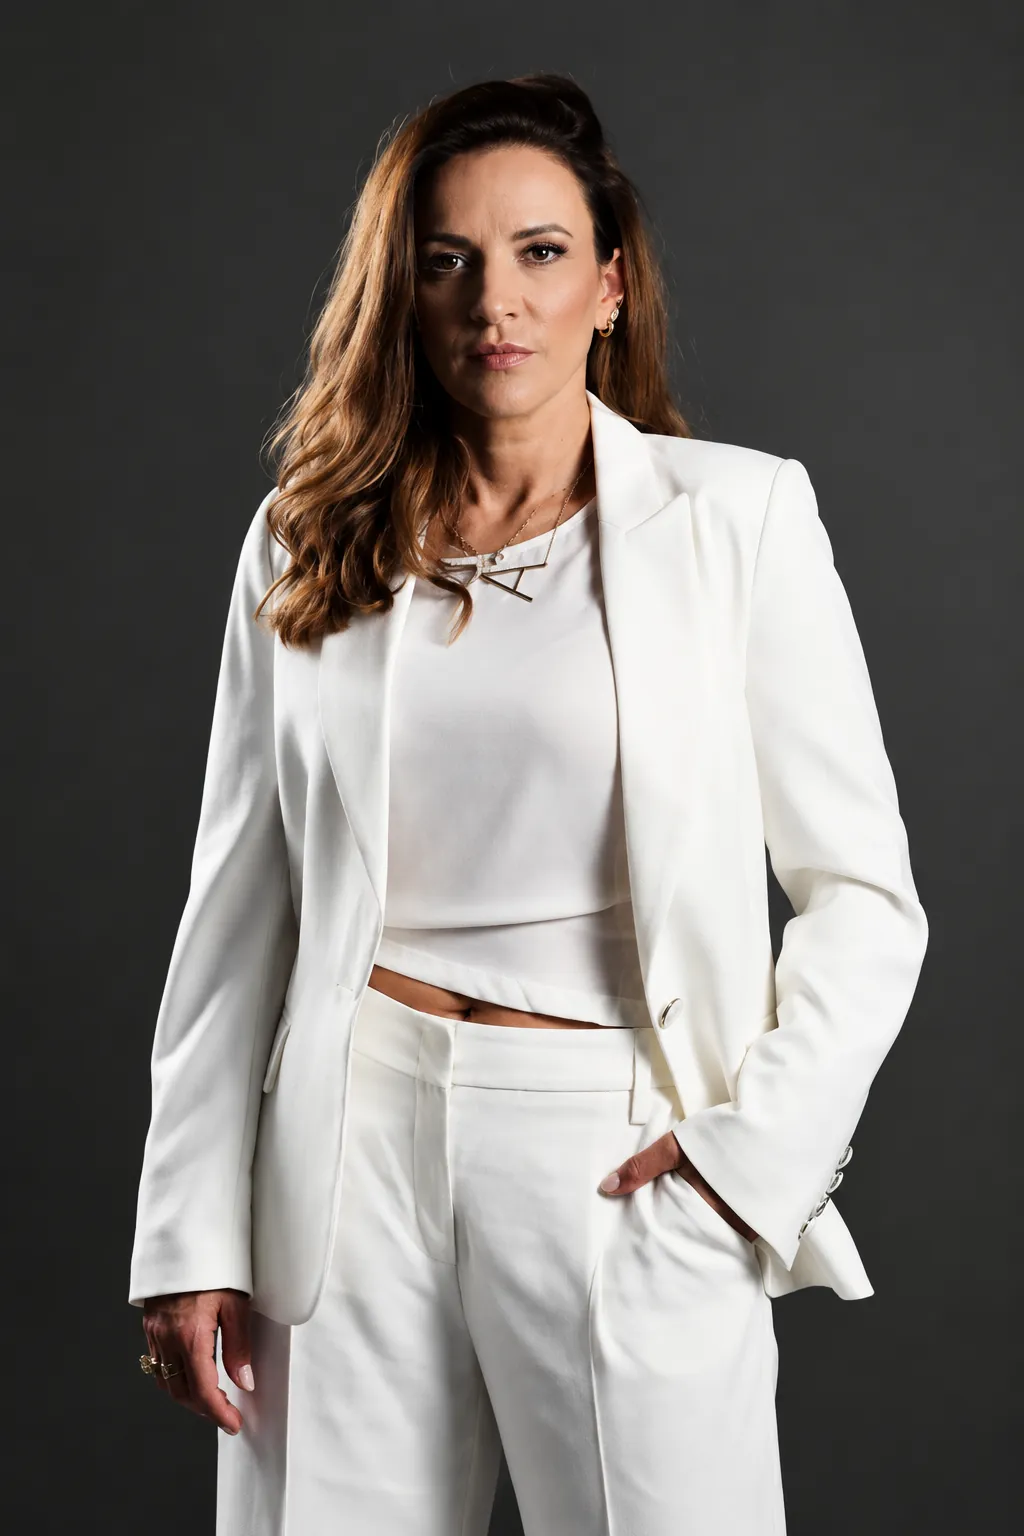
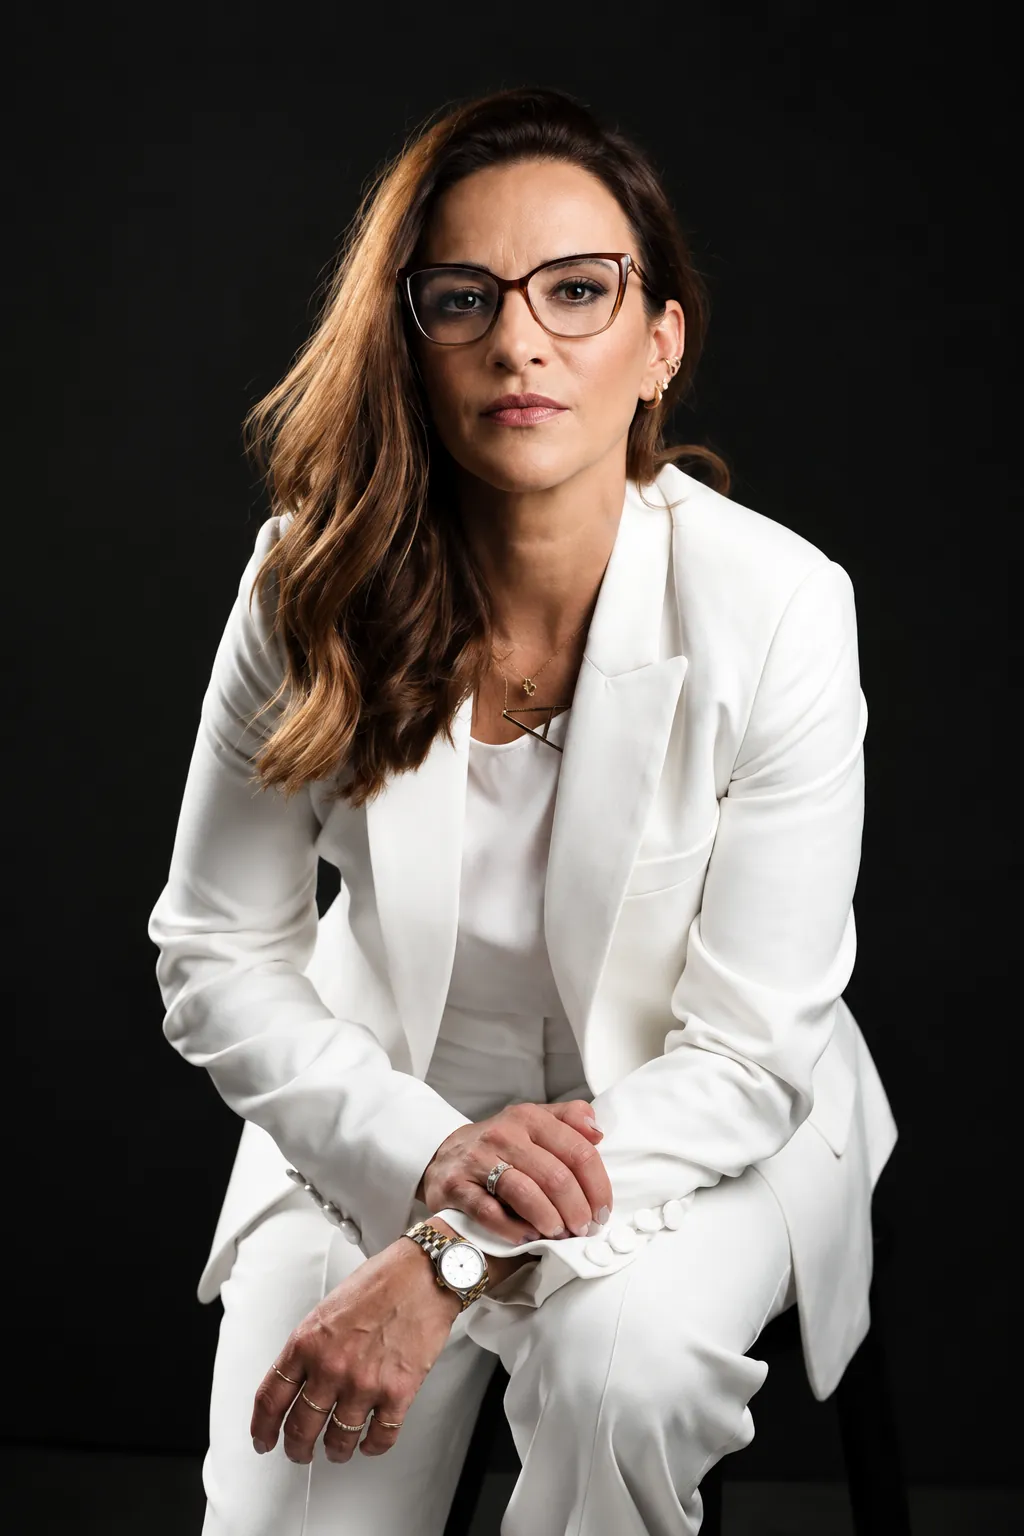
Hero nova pelo PSD de 19/11 e foto nova na seção Sobre
- Fundo da hero com a estátua da Justiça (16% sobre o grafite, com a máscara da camada do PSD)
- Foto da Aline na poltrona ovo, na posição do PSD no desktop e no celular
- Faixa rolante removida; etiqueta do celular na largura do botão
- Seção Sobre com a foto nova (sentada, terno branco, fundo preto)

diff --git a/css/style.css b/css/style.css
@@ -188,9 +188,9 @@ ul { margin: 0; padding: 0; list-style: none; }
 .hero {
   position: relative;
   overflow: hidden;
-  background:
-    linear-gradient(180deg, rgba(44, 44, 43, 0.9) 0%, rgba(44, 44, 43, 0.93) 55%, rgba(44, 44, 43, 0.97) 100%),
-    url("../img/fundo-colunas.webp") center 35% / cover no-repeat;
+  /* fundo do PSD (19/11): estátua da Justiça a 16% sobre o grafite, já escurecida na imagem; mesma posição e
+     tamanho da camada (2257u de largura, 339u à esquerda do container e 167u acima do topo da hero) */
+  background: url("../img/fundo-justica.webp?v=2") no-repeat calc(50% + 149.5 * var(--u)) calc(-167 * var(--u)) / calc(2257 * var(--u)) auto;
   background-color: var(--grafite);
 }
 .hero__grade {
@@ -238,17 +238,20 @@ ul { margin: 0; padding: 0; list-style: none; }
 }
 .hero .btn-claro__icone { width: 5.1cqw; height: 5.1cqw; }
 
+/* foto na poltrona ovo (19/11), como a camada "Agrupar 5" do PSD: 710u de largura, 700u depois do início
+   do container e 36u abaixo do topo da hero */
 .hero__foto {
   position: absolute; z-index: 2;
-  width: 61.9cqw;
-  right: -8.7cqw;
-  top: 3.1cqw;
+  width: 55.47cqw;
+  right: -10.16cqw;
+  top: 2.81cqw;
 }
 .hero__foto img { width: 100%; height: auto; }
+/* cartão no mesmo lugar de antes (medido pelo topo da hero, em cqw), não pelo tamanho da foto */
 .hero__cartao {
   position: absolute;
-  left: 5.3%; top: 50.3%;
-  width: 63.4%;
+  left: -4.61cqw; top: 39.22cqw;
+  width: 39.24cqw;
   padding: 2.4cqw 3.4cqw 2.3cqw 3.8cqw;
   background: rgba(178, 148, 78, 0.95);
   border-radius: 3.1cqw;
@@ -270,28 +273,6 @@ ul { margin: 0; padding: 0; list-style: none; }
 .selo-redondo__texto { font-family: var(--serif); font-weight: 500; font-size: 9.6px; fill: #fff; }
 .selo-redondo__balanca { fill: var(--ouro); }
 
-/* faixa rolante */
-.faixa {
-  position: absolute; left: 0; right: 0; bottom: 0; z-index: 4;
-  height: max(56px, calc(107 * var(--u)));
-  overflow: hidden;
-  display: flex; align-items: center;
-  background: linear-gradient(90deg, rgba(42, 42, 41, 0.92) 0%, rgba(80, 78, 74, 0.62) 50%, rgba(58, 57, 55, 0.78) 100%);
-  /* desfoca a foto e o fundo que passam por trás da faixa */
-  -webkit-backdrop-filter: blur(12px);
-  backdrop-filter: blur(12px);
-}
-.faixa__trilho { display: flex; width: max-content; animation: rolar 38s linear infinite; }
-.faixa__grupo { display: flex; }
-.faixa__item {
-  display: flex; align-items: center; gap: max(10px, calc(20 * var(--u)));
-  padding-right: max(32px, calc(56 * var(--u)));
-  font-family: var(--serif); font-weight: 400;
-  font-size: max(0.85rem, calc(25 * var(--u))); line-height: 1.05;
-  color: #fff; white-space: nowrap;
-}
-.faixa__item img { height: max(28px, calc(51 * var(--u))); width: auto; }
-@keyframes rolar { to { transform: translateX(-50%); } }
 
 /* =========================================================
    2. CREDIBILIDADE
@@ -552,7 +533,7 @@ ul { margin: 0; padding: 0; list-style: none; }
 }
 .sobre__botao .btn-escuro__icone { width: max(30px, calc(43 * var(--u))); height: max(30px, calc(43 * var(--u))); }
 
-.sobre__foto { position: relative; margin: 0; overflow: hidden; isolation: isolate; clip-path: inset(0); background: #3a3a3a; }
+.sobre__foto { position: relative; margin: 0; overflow: hidden; isolation: isolate; clip-path: inset(0); background: #0e0e0e; }
 .sobre__foto img { position: absolute; inset: 0; width: 100%; height: 100%; object-fit: cover; object-position: 50% 8%; }
 .sobre__foto figcaption {
   position: absolute; left: 0; right: 0; bottom: 0;
@@ -830,7 +811,6 @@ ul { margin: 0; padding: 0; list-style: none; }
   .hero__foto img { -webkit-mask-image: linear-gradient(180deg, #000 82%, transparent 100%); mask-image: linear-gradient(180deg, #000 82%, transparent 100%); }
   .hero__cartao { left: 6%; top: auto; bottom: 10%; width: 72%; padding: 16px 20px 18px; border-radius: 18px; font-size: clamp(0.85rem, 3.4vw, 1rem); }
   .selo-redondo { width: 64px; height: 64px; right: -16px; bottom: -22px; }
-  .faixa { position: relative; }
 
   /* credibilidade */
   .cred__grade { grid-template-columns: 1fr; gap: 28px; }
@@ -906,7 +886,7 @@ ul { margin: 0; padding: 0; list-style: none; }
   100% { transform: translate3d(14%, -4%, 0) rotate(5deg); }
 }
 
-/* faixas e botões: o degradê tem o dobro da largura e desliza de um lado para o outro */
+/* cabeçalho e botões: o degradê tem o dobro da largura e desliza de um lado para o outro */
 .topo {
   background: linear-gradient(90deg, #a98b47 0%, #b5964f 25%, #d8b766 50%, #b5964f 75%, #a98b47 100%);
   background-size: 200% 100%;
@@ -923,11 +903,6 @@ ul { margin: 0; padding: 0; list-style: none; }
   animation: ouro-fluxo 10s ease-in-out infinite alternate;
 }
 .sobre__botao { background: linear-gradient(90deg, #262626 0%, #333 30%, #4a4a4a 50%, #333 70%, #262626 100%); background-size: 200% 100%; }
-.faixa {
-  background: linear-gradient(90deg, rgba(42, 42, 41, 0.92) 0%, rgba(80, 78, 74, 0.62) 25%, rgba(58, 57, 55, 0.78) 50%, rgba(80, 78, 74, 0.62) 75%, rgba(42, 42, 41, 0.92) 100%);
-  background-size: 200% 100%;
-  animation: ouro-fluxo 16s ease-in-out infinite alternate;
-}
 
 /* cartões dourados grandes: o degradê fica numa camada maior que o cartão e "flutua"
    (só transform, que a placa de vídeo anima sem pesar a página) */
@@ -955,7 +930,7 @@ ul { margin: 0; padding: 0; list-style: none; }
 
 /* =========================================================
    CELULAR: topo conforme a prancheta 2 do PSD (1080 px de largura)
-   ordem: foto com o cartão, faixa e depois o texto; cabeçalho transparente por cima da foto
+   ordem: foto com o cartão e depois o texto; cabeçalho transparente por cima da foto
    (1 px da prancheta = 100vw / 1080; pisos mínimos para o texto continuar legível)
    ========================================================= */
 .quebra-m { display: none; }
@@ -985,29 +960,29 @@ ul { margin: 0; padding: 0; list-style: none; }
   .topo.aberto .menu-botao span:nth-child(1) { transform: translateY(calc(max(4px, 1vw) + max(2px, 0.65vw))) rotate(45deg); }
   .topo.aberto .menu-botao span:nth-child(3) { transform: translateY(calc(-1 * (max(4px, 1vw) + max(2px, 0.65vw)))) rotate(-45deg); }
 
-  /* topo: foto em cima, faixa, e o texto embaixo no fundo grafite */
+  /* topo: foto em cima e o texto embaixo; fundo da estátua como na prancheta 2 (2257 px de largura,
+     900 px à esquerda e 43 px acima do topo) */
   .hero {
     display: flex; flex-direction: column;
-    background:
-      linear-gradient(180deg, rgba(44, 44, 43, 0.55) 0, rgba(44, 44, 43, 0.72) 70vw, #2d2d2d 111vw, #2d2d2d 100%),
-      url("../img/fundo-colunas-1280.webp") center top / auto 125vw no-repeat,
-      var(--grafite);
+    background: url("../img/fundo-justica-1280.webp?v=2") no-repeat -83.3vw -4vw / 209vw auto;
+    background-color: var(--grafite);
   }
   .hero__grade { display: contents; }
 
+  /* foto e cartão nas posições da prancheta 2: foto 750 px de largura em (225, 119), cartão em (162, 649) */
   .hero__foto {
     order: 1;
     position: relative; right: auto; top: auto;
-    width: 100%; height: 110.8vw; margin: 0;
-    overflow: hidden;
+    width: 100%; height: 110.4vw; margin: 0;
+    overflow: visible;
   }
   .hero__foto img {
-    position: absolute; left: 12.7vw; top: 13.3vw;
-    width: 80vw; max-width: none; height: auto;
+    position: absolute; left: 20.83vw; top: 11.02vw;
+    width: 69.44vw; max-width: none; height: auto;
     -webkit-mask-image: none; mask-image: none;
   }
   .hero__cartao {
-    left: 21.2vw; top: 60.8vw; bottom: auto; width: 46.7vw;
+    left: 15vw; top: 60.1vw; bottom: auto; width: 49.1vw;
     padding: 2.1vw 2.6vw 2.4vw 4vw;
     border-radius: 3vw;
     font-size: max(10px, 2.45vw); line-height: 1.2;
@@ -1015,20 +990,16 @@ ul { margin: 0; padding: 0; list-style: none; }
   .hero__cartao .quebra { display: inline; }
   .selo-redondo { width: max(42px, 11.6vw); height: max(42px, 11.6vw); right: -2.3vw; bottom: -3.1vw; }
 
-  /* a faixa desce 1vw além do pé da foto: assim cobre a última linha da foto, que vazava por baixo dela */
-  .faixa { order: 2; position: relative; margin-top: calc(-1 * max(36px, 9.9vw) + 1vw); height: max(36px, 9.9vw); }
-  .faixa__item { gap: max(6px, 1.8vw); padding-right: max(16px, 5vw); font-size: max(9px, 2.3vw); }
-  .faixa__item img { height: max(18px, 4.6vw); }
-
-  .hero__texto { order: 3; width: auto; padding: max(20px, 4.9vw) max(20px, 10.1vw) max(40px, 13.8vw); }
+  .hero__texto { order: 2; width: auto; padding: max(20px, 4.9vw) max(20px, 10.1vw) max(40px, 13.8vw); }
+  /* etiqueta na largura do texto, igual ao botão (prancheta 2 de 19/11: 869 x 107 px) */
   .selo-area {
-    display: flex; width: 58.4vw; min-width: 230px; min-height: max(36px, 9vw);
-    margin-inline: auto;
-    padding: 0 3vw; gap: 2.6vw;
+    display: flex; width: 100%; min-width: 0; min-height: max(36px, 9.9vw);
+    margin-inline: 0;
+    padding: 0 3vw; gap: 2.8vw;
     border-width: max(2px, 0.37vw); border-radius: 2.2vw;
-    font-size: max(10px, 2.1vw);
+    font-size: max(10px, 3vw);
   }
-  .selo-area__icone { width: max(20px, 5.4vw); height: max(20px, 5.4vw); }
+  .selo-area__icone { width: max(20px, 5.9vw); height: max(20px, 5.9vw); }
   .hero__titulo { margin-top: max(14px, 3.4vw); font-size: max(1.3rem, 5.6vw); line-height: 1.12; }
   .hero__sub { margin-top: max(10px, 3vw); max-width: none; font-size: max(15px, 4.07vw); line-height: 1.2; }
   .hero .btn-claro {
@@ -1060,8 +1031,7 @@ ul { margin: 0; padding: 0; list-style: none; }
 
 @media (prefers-reduced-motion: reduce) {
   html { scroll-behavior: auto; }
-  .topo, .btn-claro, .btn-fale, .btn-escuro, .faixa,
+  .topo, .btn-claro, .btn-fale, .btn-escuro,
   .cred__cartao::before, .painel::before, .sobre__cartao::before { animation: none !important; }
-  .faixa__trilho { animation: none; }
   *, *::before, *::after { transition: none !important; }
 }

diff --git a/index.html b/index.html
@@ -16,8 +16,8 @@
   <link rel="preconnect" href="https://fonts.googleapis.com">
   <link rel="preconnect" href="https://fonts.gstatic.com" crossorigin>
   <link href="https://fonts.googleapis.com/css2?family=Old+Standard+TT:ital,wght@0,400;0,700;1,400&family=Roboto:wght@300..700&display=swap" rel="stylesheet">
-  <link rel="preload" as="image" href="img/aline-hero.webp" type="image/webp">
-  <link rel="stylesheet" href="css/style.css?v=20261118-23">
+  <link rel="preload" as="image" href="img/aline-hero.webp?v=20261119-2" type="image/webp">
+  <link rel="stylesheet" href="css/style.css?v=20261119-6">
 </head>
 <body>
 
@@ -81,7 +81,7 @@
       </a>
     </div>
     <div class="hero__foto">
-      <img src="img/aline-hero.webp" alt="Dra. Aline Trindade, advogada previdenciária em Florianópolis" width="792" height="990" fetchpriority="high">
+      <img src="img/aline-hero.webp?v=20261119-2" alt="Dra. Aline Trindade, advogada previdenciária em Florianópolis" width="1022" height="1536" fetchpriority="high">
       <div class="hero__cartao">
         <p>Atendimento personalizado e<br class="quebra"> humano, com retorno rápido e<br class="quebra"> acompanhamento pelo<br class="quebra"> WhatsApp, presencial em<br class="quebra"> Florianópolis e online para<br class="quebra"> todo o Brasil.</p>
         <svg class="selo-redondo" viewBox="0 0 120 120" aria-hidden="true">
@@ -94,24 +94,6 @@
     </div>
   </div>
 
-  <div class="faixa" aria-hidden="true">
-    <div class="faixa__trilho">
-      <div class="faixa__grupo">
-        <span class="faixa__item"><img src="img/logo-a-branca.png" alt="" width="228" height="240">Advocacia previdenciária<br>e trabalhista</span>
-        <span class="faixa__item"><img src="img/logo-a-branca.png" alt="" width="228" height="240">Advocacia previdenciária<br>e trabalhista</span>
-        <span class="faixa__item"><img src="img/logo-a-branca.png" alt="" width="228" height="240">Advocacia previdenciária<br>e trabalhista</span>
-        <span class="faixa__item"><img src="img/logo-a-branca.png" alt="" width="228" height="240">Advocacia previdenciária<br>e trabalhista</span>
-        <span class="faixa__item"><img src="img/logo-a-branca.png" alt="" width="228" height="240">Advocacia previdenciária<br>e trabalhista</span>
-      </div>
-      <div class="faixa__grupo">
-        <span class="faixa__item"><img src="img/logo-a-branca.png" alt="" width="228" height="240">Advocacia previdenciária<br>e trabalhista</span>
-        <span class="faixa__item"><img src="img/logo-a-branca.png" alt="" width="228" height="240">Advocacia previdenciária<br>e trabalhista</span>
-        <span class="faixa__item"><img src="img/logo-a-branca.png" alt="" width="228" height="240">Advocacia previdenciária<br>e trabalhista</span>
-        <span class="faixa__item"><img src="img/logo-a-branca.png" alt="" width="228" height="240">Advocacia previdenciária<br>e trabalhista</span>
-        <span class="faixa__item"><img src="img/logo-a-branca.png" alt="" width="228" height="240">Advocacia previdenciária<br>e trabalhista</span>
-      </div>
-    </div>
-  </div>
 </section>
 
 <!-- ============ 2. CREDIBILIDADE ============ -->
@@ -212,7 +194,7 @@
         </a>
       </div>
       <figure class="sobre__foto">
-        <img src="img/aline-sobre.webp" alt="Dra. Aline Trindade de blazer branco" width="1024" height="1536" loading="lazy">
+        <img src="img/aline-sobre.webp?v=20261119" alt="Dra. Aline Trindade sentada, de terno branco" width="1024" height="1536" loading="lazy">
         <figcaption>Análise individual do seu<br class="quebra"> caso, orientação clara e<br class="quebra"> acompanhamento jurídico<br class="quebra"> do início ao fim.</figcaption>
       </figure>
     </div>
